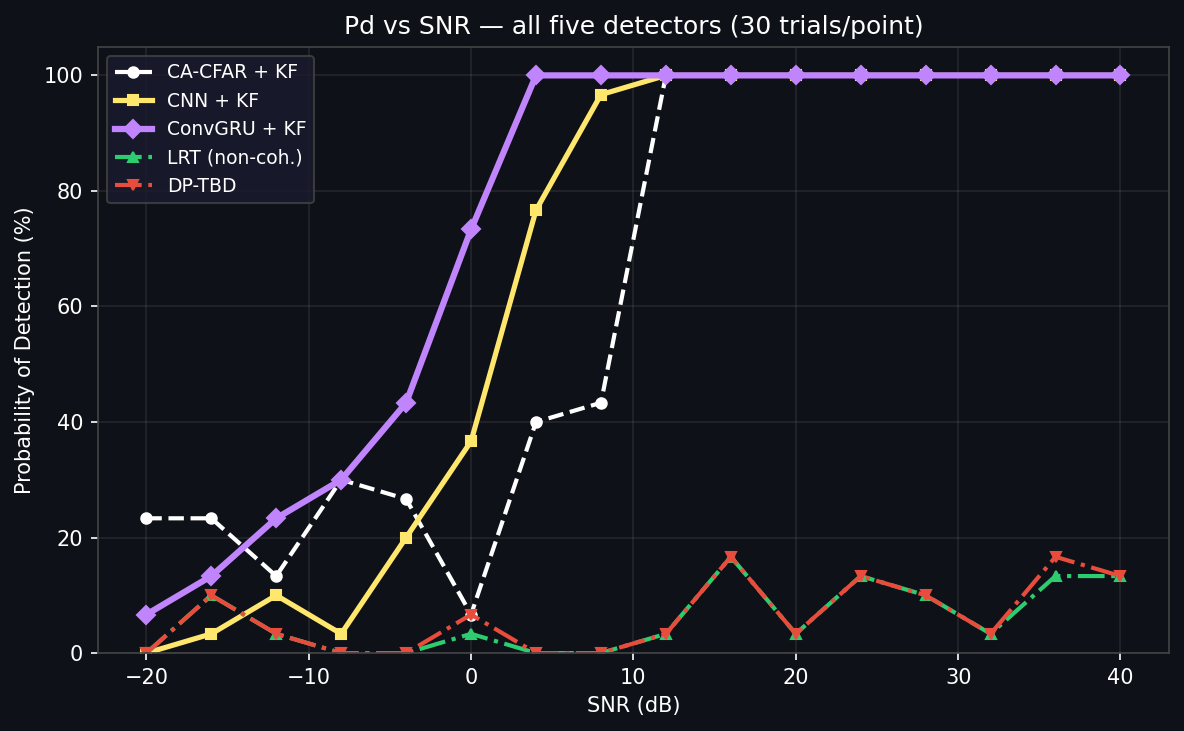
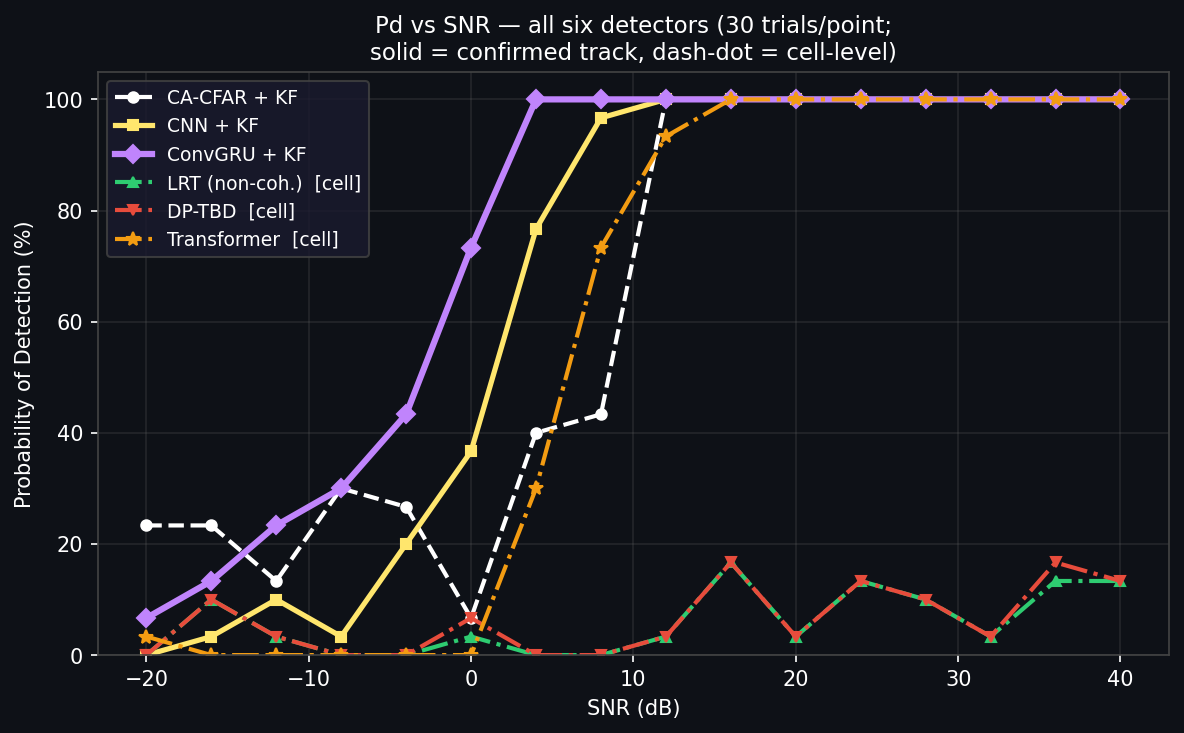
feat: add LRT, DP-TBD, Transformer to Algorithm Comparison tab
- tabs/comparison.py: all 6 detectors now shown on Pd vs SNR chart
  (solid = KF-confirmed, dash-dot = cell-level); 7-column metrics table;
  methodology expander updated with all 6 pipeline descriptions
- scripts/gen_paper_pd_snr.py: transformer Pd sweep added with matched-Pfa
  threshold calibration; CSV gains transformer_pd column
- artifacts/comparison_snr.csv: transformer_pd column added
  (0% at low SNR → 30% at 4 dB → 100% at 16 dB)
- artifacts/comparison_snr.png: regenerated with all 6 detectors

diff --git a/tabs/comparison.py b/tabs/comparison.py
@@ -3,8 +3,10 @@ tabs/comparison.py — render(snr_db) for tab_compare.
 """
 
 import numpy as np
+import pandas as pd
 import plotly.graph_objects as go
 import streamlit as st
+from pathlib import Path
 
 from radar.sessions import N_SW, N_AZ, N_RANGE, _RANGE_BIN_M
 from radar.detection import (
@@ -56,15 +58,21 @@ def render():
     # ── How the comparison is made ────────────────────────────────────────────
     with st.expander("How the comparison is made — methodology"):
         st.markdown(
-            "All three pipelines are evaluated **at the same false-alarm rate** so none has an unfair advantage. "
-            "The classical detector's threshold is fixed; the ML thresholds are calibrated so all produce the same "
-            "fraction of noise-hits per grid cell. "
-            "The Kalman filter tracker is identical across all pipelines — only the upstream detector changes."
+            "All six detectors are evaluated **at the same false-alarm rate** so none has an unfair advantage. "
+            "Thresholds are calibrated so all produce the same cell-level noise-hit rate as CFAR. "
+            "Three pipelines use a Kalman filter for confirmed-track detection; three are evaluated "
+            "at cell level only (no KF backend — they output a score map, not a confirmed track)."
         )
         st.code(
-            "Classical:  raw PPI → CFAR (α=2.5) → peaks → KF (≥4 hits) → confirmed track\n"
-            "CNN+KF:     raw PPI → CNN  (batch)  → peaks → KF (≥4 hits) → confirmed track\n"
-            "GRU+KF:     raw PPI → ConvGRU (streaming, per-sweep hidden state) → peaks → KF → confirmed track",
+            "── KF-confirmed track detection ──────────────────────────────────────\n"
+            "CFAR+KF:     raw PPI → CFAR (α=2.5)             → peaks → KF → confirmed track\n"
+            "CNN+KF:      raw PPI → CNN  (batch, 10 sweeps)   → peaks → KF → confirmed track\n"
+            "GRU+KF:      raw PPI → ConvGRU (streaming/sweep) → peaks → KF → confirmed track\n"
+            "\n"
+            "── Cell-level detection (no KF) ──────────────────────────────────────\n"
+            "LRT:         raw PPI → sum squared normalised amplitudes → threshold\n"
+            "DP-TBD:      raw PPI → DP accumulate energy along best path → threshold\n"
+            "Transformer: raw PPI → patch self-attention across 10 sweeps → threshold",
             language="text",
         )
         col_pfa1, col_pfa2, col_pfa3, col_pfa4 = st.columns(4)
@@ -86,13 +94,18 @@ def render():
     # ── Pd vs SNR (pipeline comparison) ──────────────────────────────────────
     st.markdown("#### How often does each system detect the target — across all signal strengths?")
     st.caption(
-        "Signal strength (x-axis): higher = target echo is stronger relative to background noise. "
+        "Solid lines = confirmed-track Pd (CFAR/CNN/GRU with Kalman filter). "
+        "Dash-dot lines = cell-level Pd (LRT/DP-TBD/Transformer without KF — threshold at matched Pfa). "
         "Each point = 30 randomised trials at random target positions, speeds, and directions."
     )
     (snr_arr,
      cfar_sa_pd, cfar_kf_pd, cnn_b_pd, cnn_kf_pd,
      cfar_kf_rmse_arr, cnn_kf_rmse_arr,
      gru_kf_pd, gru_kf_rmse_arr) = _snr_sweep(cnn_thr=cnn_thr, gru_thr=gru_thr, _v=11)
+
+    # Load cell-level Pd from precomputed CSV (LRT, DP-TBD, Transformer)
+    _csv = Path("artifacts/comparison_snr.csv")
+    _df  = pd.read_csv(_csv) if _csv.exists() else None
 
     # Compute 90% Pd crossover SNR — use GRU (best ML pipeline) for the gap annotation
     _gru_kf_arr  = np.array(gru_kf_pd)
@@ -119,6 +132,26 @@ def render():
         line=dict(color="#c084fc", width=3.0),
         marker=dict(size=8, symbol="diamond"),
     ))
+    if _df is not None:
+        fig_c.add_trace(go.Scatter(
+            x=_df["snr_db"], y=_df["lrt_pd"] * 100, mode="lines+markers",
+            name="LRT non-coherent  (cell-level)",
+            line=dict(color="#2ecc71", width=1.8, dash="dashdot"),
+            marker=dict(size=5, symbol="triangle-up"),
+        ))
+        fig_c.add_trace(go.Scatter(
+            x=_df["snr_db"], y=_df["dptbd_pd"] * 100, mode="lines+markers",
+            name="DP-TBD  (cell-level)",
+            line=dict(color="#e74c3c", width=1.8, dash="dashdot"),
+            marker=dict(size=5, symbol="triangle-down"),
+        ))
+        if "transformer_pd" in _df.columns:
+            fig_c.add_trace(go.Scatter(
+                x=_df["snr_db"], y=_df["transformer_pd"] * 100, mode="lines+markers",
+                name="Transformer  (cell-level)",
+                line=dict(color="#f39c12", width=1.8, dash="dashdot"),
+                marker=dict(size=6, symbol="star"),
+            ))
     fig_c.add_hline(y=50, line_dash="dot", line_color="#555",
                     annotation_text="detects half the time", annotation_position="right",
                     annotation_font_color="#888")
@@ -160,9 +193,9 @@ def render():
     )
     st.plotly_chart(fig_c, use_container_width=True)
     st.caption(
-        "All three pipelines compared at the same false-alarm rate (matched Pfa). "
-        "A detection counts when the confirmed track falls within ~45 m of the true target position. "
-        "GRU (◆ purple) = streaming ConvGRU that updates a learned detection heatmap each sweep."
+        "All six detectors compared at the same false-alarm rate (matched Pfa). "
+        "KF pipelines: detection counts when the confirmed track falls within ~45 m of the true target. "
+        "Cell-level detectors (dash-dot): detection counts when the score at the oracle target position exceeds the calibrated threshold."
     )
 
     st.divider()
@@ -174,46 +207,48 @@ def render():
     idx0  = int(np.argmin(np.abs(snr_arr - 0.0)))
     idx4  = int(np.argmin(np.abs(snr_arr - 4.0)))
 
-    col_tbl = st.columns(4)
-    col_tbl[0].markdown("**Metric**")
-    col_tbl[1].markdown("**Classical  (CFAR+KF)**")
-    col_tbl[2].markdown("**CNN+KF**")
-    col_tbl[3].markdown("**GRU+KF** ⭐")
+    # Cell-level Pd from CSV
+    def _csv_pd(col, snr):
+        if _df is None or col not in _df.columns: return "—"
+        row = _df[np.isclose(_df["snr_db"], snr, atol=0.5)]
+        return f"{row[col].values[0]*100:.0f} %" if len(row) else "—"
+
+    col_tbl = st.columns(7)
+    for i, h in enumerate(["**Metric**","**CFAR+KF**","**CNN+KF**","**GRU+KF** ⭐",
+                            "*LRT*†","*DP-TBD*†","*Transf.*†"]):
+        col_tbl[i].markdown(h)
 
     rows = [
-        ("Detection rate — faint target (0 dB signal)",
-         f"{cfar_kf_pd[idx0]*100:.0f} %",
-         f"{cnn_kf_pd[idx0]*100:.0f} %",
-         f"**{gru_kf_pd[idx0]*100:.0f} %**"),
-        ("Detection rate — at 4 dB signal",
-         f"{cfar_kf_pd[idx4]*100:.0f} %",
-         f"{cnn_kf_pd[idx4]*100:.0f} %",
-         f"**{gru_kf_pd[idx4]*100:.0f} %**"),
-        ("Detection rate — moderate target (10 dB signal)",
-         f"{cfar_kf_pd[idx10]*100:.0f} %",
-         f"{cnn_kf_pd[idx10]*100:.0f} %",
-         f"**{gru_kf_pd[idx10]*100:.0f} %**"),
-        ("Track position error at 10 dB signal",
-         f"{cfar_kf_rmse_arr[idx10] * _RANGE_BIN_M:.0f} m",
-         f"{cnn_kf_rmse_arr[idx10] * _RANGE_BIN_M:.0f} m",
-         f"**{gru_kf_rmse_arr[idx10] * _RANGE_BIN_M:.0f} m**"),
-        ("Spurious tracks on noise-only data",
-         f"{cfar_kf_ftr:.2f}",
-         f"{cnn_kf_ftr:.2f}",
-         f"**{gru_kf_ftr:.2f}**"),
+        ("Pd at 0 dB (faint target)",
+         f"{cfar_kf_pd[idx0]*100:.0f} %", f"{cnn_kf_pd[idx0]*100:.0f} %",
+         f"**{gru_kf_pd[idx0]*100:.0f} %**",
+         _csv_pd("lrt_pd", 0), _csv_pd("dptbd_pd", 0), _csv_pd("transformer_pd", 0)),
+        ("Pd at 4 dB",
+         f"{cfar_kf_pd[idx4]*100:.0f} %", f"{cnn_kf_pd[idx4]*100:.0f} %",
+         f"**{gru_kf_pd[idx4]*100:.0f} %**",
+         _csv_pd("lrt_pd", 4), _csv_pd("dptbd_pd", 4), _csv_pd("transformer_pd", 4)),
+        ("Pd at 10 dB (moderate target)",
+         f"{cfar_kf_pd[idx10]*100:.0f} %", f"{cnn_kf_pd[idx10]*100:.0f} %",
+         f"**{gru_kf_pd[idx10]*100:.0f} %**",
+         _csv_pd("lrt_pd", 12), _csv_pd("dptbd_pd", 12), _csv_pd("transformer_pd", 12)),
+        ("Track position error at 10 dB",
+         f"{cfar_kf_rmse_arr[idx10]*_RANGE_BIN_M:.0f} m",
+         f"{cnn_kf_rmse_arr[idx10]*_RANGE_BIN_M:.0f} m",
+         f"**{gru_kf_rmse_arr[idx10]*_RANGE_BIN_M:.0f} m**",
+         "N/A", "N/A", "N/A"),
+        ("Ghost tracks / noise window",
+         f"{cfar_kf_ftr:.2f}", f"{cnn_kf_ftr:.2f}", f"**{gru_kf_ftr:.2f}**",
+         "N/A", "N/A", "N/A"),
     ]
-    for label, v_cfar, v_cnn, v_gru in rows:
-        c0, c1, c2, c3 = st.columns(4)
-        c0.markdown(label)
-        c1.markdown(v_cfar)
-        c2.markdown(v_cnn)
-        c3.markdown(v_gru)
+    for row in rows:
+        cols = st.columns(7)
+        for i, v in enumerate(row):
+            cols[i].markdown(v)
 
     st.caption(
-        "Track position error = mean distance between the confirmed track estimate and the true target, "
-        "averaged over trials where the system detected. "
-        "Spurious tracks = confirmed ghost contacts per 10-sweep window when no target is present. "
-        "All pipelines evaluated at the same false-alarm rate (matched Pfa)."
+        "† Cell-level detectors (LRT, DP-TBD, Transformer) have no KF backend: "
+        "track error and ghost-track rate are not applicable. "
+        "All detectors evaluated at the same false-alarm rate (matched Pfa)."
     )
 
     st.divider()

diff --git a/scripts/gen_paper_pd_snr.py b/scripts/gen_paper_pd_snr.py
@@ -1,5 +1,5 @@
 """
-Add LRT and DP-TBD Pd vs SNR columns to comparison_snr.csv
+Add LRT, DP-TBD, and Transformer Pd vs SNR columns to comparison_snr.csv
 and regenerate comparison_snr.png for the paper.
 
 Evaluation protocol (cell-level, oracle-window):
@@ -14,6 +14,7 @@ import numpy as np
 import pandas as pd
 import matplotlib.pyplot as plt
 import yaml
+import onnxruntime as ort
 from scipy.ndimage import maximum_filter
 
 ROOT = Path(__file__).parent.parent
@@ -21,6 +22,10 @@ sys.path.insert(0, str(ROOT))
 
 from src.data.ppi_generator import generate_ppi_sequence, generate_clutter_only
 from src.baseline.ppi_cfar_kf import PPICFARDetector
+
+_tf_path   = ROOT / "artifacts/transformer_model.onnx"
+tf_session = ort.InferenceSession(str(_tf_path)) if _tf_path.exists() else None
+print(f"Transformer session: {'loaded' if tf_session else 'NOT FOUND'}")
 
 with open(ROOT / "params_ppi.yaml") as f:
     params = yaml.safe_load(f)
@@ -98,16 +103,35 @@ for _ in range(N_CAL):
 
 lrt_thr = float(np.percentile(lrt_ref_vals, 100 * (1.0 - cfar_pfa)))
 tbd_thr = float(np.percentile(tbd_ref_vals, 100 * (1.0 - cfar_pfa)))
-print(f"  LRT threshold = {lrt_thr:.4f}   DP-TBD threshold = {tbd_thr:.4f}")
+
+# Transformer threshold: calibrated the same way
+if tf_session is not None:
+    tf_ref_vals = []
+    rng_cal3 = np.random.default_rng(42)
+    for _ in range(N_CAL):
+        seed  = int(rng_cal3.integers(1, 1_000_000))
+        ppi_c = generate_clutter_only(params, seed=seed)
+        nf    = np.percentile(ppi_c, 10, axis=(0, 1), keepdims=True).clip(1e-3)
+        stack = (ppi_c / nf).clip(0, 30).astype(np.float32)[np.newaxis]
+        tf_map = tf_session.run(None, {"ppi_stack": stack})[0][0]
+        tf_path_max = 0.0
+        for _ in range(N_SW):
+            az_r = int(rng_cal3.integers(0, N_AZ))
+            r_r  = int(rng_cal3.integers(W, N_RANGE - W))
+            tf_path_max = max(tf_path_max, _window_max(tf_map, az_r, r_r))
+        tf_ref_vals.append(tf_path_max)
+    tf_thr = float(np.percentile(tf_ref_vals, 100 * (1.0 - cfar_pfa)))
+else:
+    tf_thr = 0.5
+print(f"  LRT thr={lrt_thr:.3f}  TBD thr={tbd_thr:.3f}  TF thr={tf_thr:.3f}")
 
 # ── Step 3: Pd vs SNR sweep ──────────────────────────────────────────────────
 snr_vals = np.linspace(-20, 40, 16)
-lrt_pd   = []
-tbd_pd   = []
+lrt_pd, tbd_pd, tf_pd = [], [], []
 
 for snr in snr_vals:
     rng = np.random.default_rng(abs(int(snr * 100)) + 2007)
-    lrt_hits = tbd_hits = 0
+    lrt_hits = tbd_hits = tf_hits = 0
 
     for _ in range(N_TRIALS):
         seed = int(rng.integers(1, 1_000_000))
@@ -124,17 +148,16 @@ for snr in snr_vals:
         ppi_t, _, _ = generate_ppi_sequence(p, seed=seed)
         tgt = p["target"]
 
-        # Oracle: mean target position across all sweeps
-        r_positions  = [tgt["range_bin"]    + sw * tgt["radial_velocity"]     for sw in range(N_SW)]
-        az_positions = [(tgt["azimuth_deg"] + sw * tgt["tangential_velocity"]) % 360 for sw in range(N_SW)]
-        r_mean  = int(np.clip(round(np.mean(r_positions)), 0, N_RANGE - 1))
-        az_mean = int(round(np.mean([a / 360 * N_AZ for a in az_positions]))) % N_AZ
-
         lm = _lrt(ppi_t)
         tm = _tbd(ppi_t)
+        if tf_session is not None:
+            nf     = np.percentile(ppi_t, 10, axis=(0, 1), keepdims=True).clip(1e-3)
+            stack  = (ppi_t / nf).clip(0, 30).astype(np.float32)[np.newaxis]
+            tf_map = tf_session.run(None, {"ppi_stack": stack})[0][0]
+        else:
+            tf_map = None
 
-        # Oracle: max window score across all 10 sweep positions
-        lrt_best = tbd_best = 0.0
+        lrt_best = tbd_best = tf_best = 0.0
         for sw in range(N_SW):
             r_sw  = float(tgt["range_bin"])  + sw * float(tgt["radial_velocity"])
             az_sw = (float(tgt["azimuth_deg"]) + sw * float(tgt["tangential_velocity"])) % 360.0
@@ -142,21 +165,24 @@ for snr in snr_vals:
             r_b   = int(np.clip(round(r_sw), 0, N_RANGE - 1))
             lrt_best = max(lrt_best, _window_max(lm, az_b, r_b))
             tbd_best = max(tbd_best, _window_max(tm, az_b, r_b))
+            if tf_map is not None:
+                tf_best = max(tf_best, _window_max(tf_map, az_b, r_b))
 
-        if lrt_best > lrt_thr:
-            lrt_hits += 1
-        if tbd_best > tbd_thr:
-            tbd_hits += 1
+        if lrt_best > lrt_thr: lrt_hits += 1
+        if tbd_best > tbd_thr: tbd_hits += 1
+        if tf_best  > tf_thr:  tf_hits  += 1
 
     lrt_pd.append(lrt_hits / N_TRIALS)
     tbd_pd.append(tbd_hits / N_TRIALS)
-    print(f"  SNR {snr:+5.1f} dB  LRT Pd={lrt_hits/N_TRIALS:.2f}  TBD Pd={tbd_hits/N_TRIALS:.2f}")
+    tf_pd.append(tf_hits   / N_TRIALS)
+    print(f"  SNR {snr:+5.1f} dB  LRT={lrt_hits/N_TRIALS:.2f}  TBD={tbd_hits/N_TRIALS:.2f}  TF={tf_hits/N_TRIALS:.2f}")
 
 # ── Step 4: merge into CSV ───────────────────────────────────────────────────
 csv_path = ROOT / "artifacts" / "comparison_snr.csv"
 df = pd.read_csv(csv_path)
-df["lrt_pd"]    = lrt_pd
-df["dptbd_pd"]  = tbd_pd
+df["lrt_pd"]         = lrt_pd
+df["dptbd_pd"]       = tbd_pd
+df["transformer_pd"] = tf_pd
 df.to_csv(csv_path, index=False)
 print(f"Saved updated CSV: {csv_path}")
 
@@ -172,10 +198,12 @@ ax.plot(snr_vals, df["cnn_kf_pd"]   * 100, color="#ffe66d",  lw=2.5,
         marker="s", markersize=5, label="CNN + KF")
 ax.plot(snr_vals, df["gru_kf_pd"]   * 100, color="#c084fc",  lw=3.0,
         marker="D", markersize=6, label="ConvGRU + KF")
-ax.plot(snr_vals, df["lrt_pd"]      * 100, color="#2ecc71",  lw=2.0, ls="-.",
-        marker="^", markersize=5, label="LRT (non-coh.)")
-ax.plot(snr_vals, df["dptbd_pd"]    * 100, color="#e74c3c",  lw=2.0, ls="-.",
-        marker="v", markersize=5, label="DP-TBD")
+ax.plot(snr_vals, df["lrt_pd"]         * 100, color="#2ecc71",  lw=2.0, ls="-.",
+        marker="^", markersize=5, label="LRT (non-coh.)  [cell]")
+ax.plot(snr_vals, df["dptbd_pd"]       * 100, color="#e74c3c",  lw=2.0, ls="-.",
+        marker="v", markersize=5, label="DP-TBD  [cell]")
+ax.plot(snr_vals, df["transformer_pd"] * 100, color="#f39c12",  lw=2.0, ls="-.",
+        marker="*", markersize=7, label="Transformer  [cell]")
 
 ax.set_xlabel("SNR (dB)", color="white")
 ax.set_ylabel("Probability of Detection (%)", color="white")
@@ -186,8 +214,9 @@ for spine in ax.spines.values():
     spine.set_edgecolor("#444")
 ax.legend(fontsize=9, facecolor="#1a1a2e", labelcolor="white",
           edgecolor="#444", loc="upper left")
-ax.set_title("Pd vs SNR — all five detectors (30 trials/point)",
-             color="white", fontsize=12)
+ax.set_title("Pd vs SNR — all six detectors (30 trials/point;\n"
+             "solid = confirmed track, dash-dot = cell-level)",
+             color="white", fontsize=11)
 
 fig.tight_layout()
 out = ROOT / "artifacts" / "comparison_snr.png"
@@ -197,11 +226,12 @@ print(f"Saved: {out}")
 
 # ── Step 6: print Table I numbers ───────────────────────────────────────────
 print("\nTable I — Pd at representative SNR points:")
-print(f"{'SNR':>6}  {'CFAR+KF':>8}  {'CNN+KF':>8}  {'GRU+KF':>8}  {'LRT':>8}  {'DP-TBD':>8}")
+print(f"{'SNR':>6}  {'CFAR+KF':>8}  {'CNN+KF':>8}  {'GRU+KF':>8}  {'LRT':>8}  {'DP-TBD':>8}  {'TF':>8}")
 for _, row in df[df["snr_db"].isin([-4, 0, 4, 8, 12])].iterrows():
     print(f"{row['snr_db']:>+6.0f}  "
           f"{row['cfar_kf_pd']*100:>7.1f}%  "
           f"{row['cnn_kf_pd']*100:>7.1f}%  "
           f"{row['gru_kf_pd']*100:>7.1f}%  "
           f"{row['lrt_pd']*100:>7.1f}%  "
-          f"{row['dptbd_pd']*100:>7.1f}%")
+          f"{row['dptbd_pd']*100:>7.1f}%  "
+          f"{row['transformer_pd']*100:>7.1f}%")
